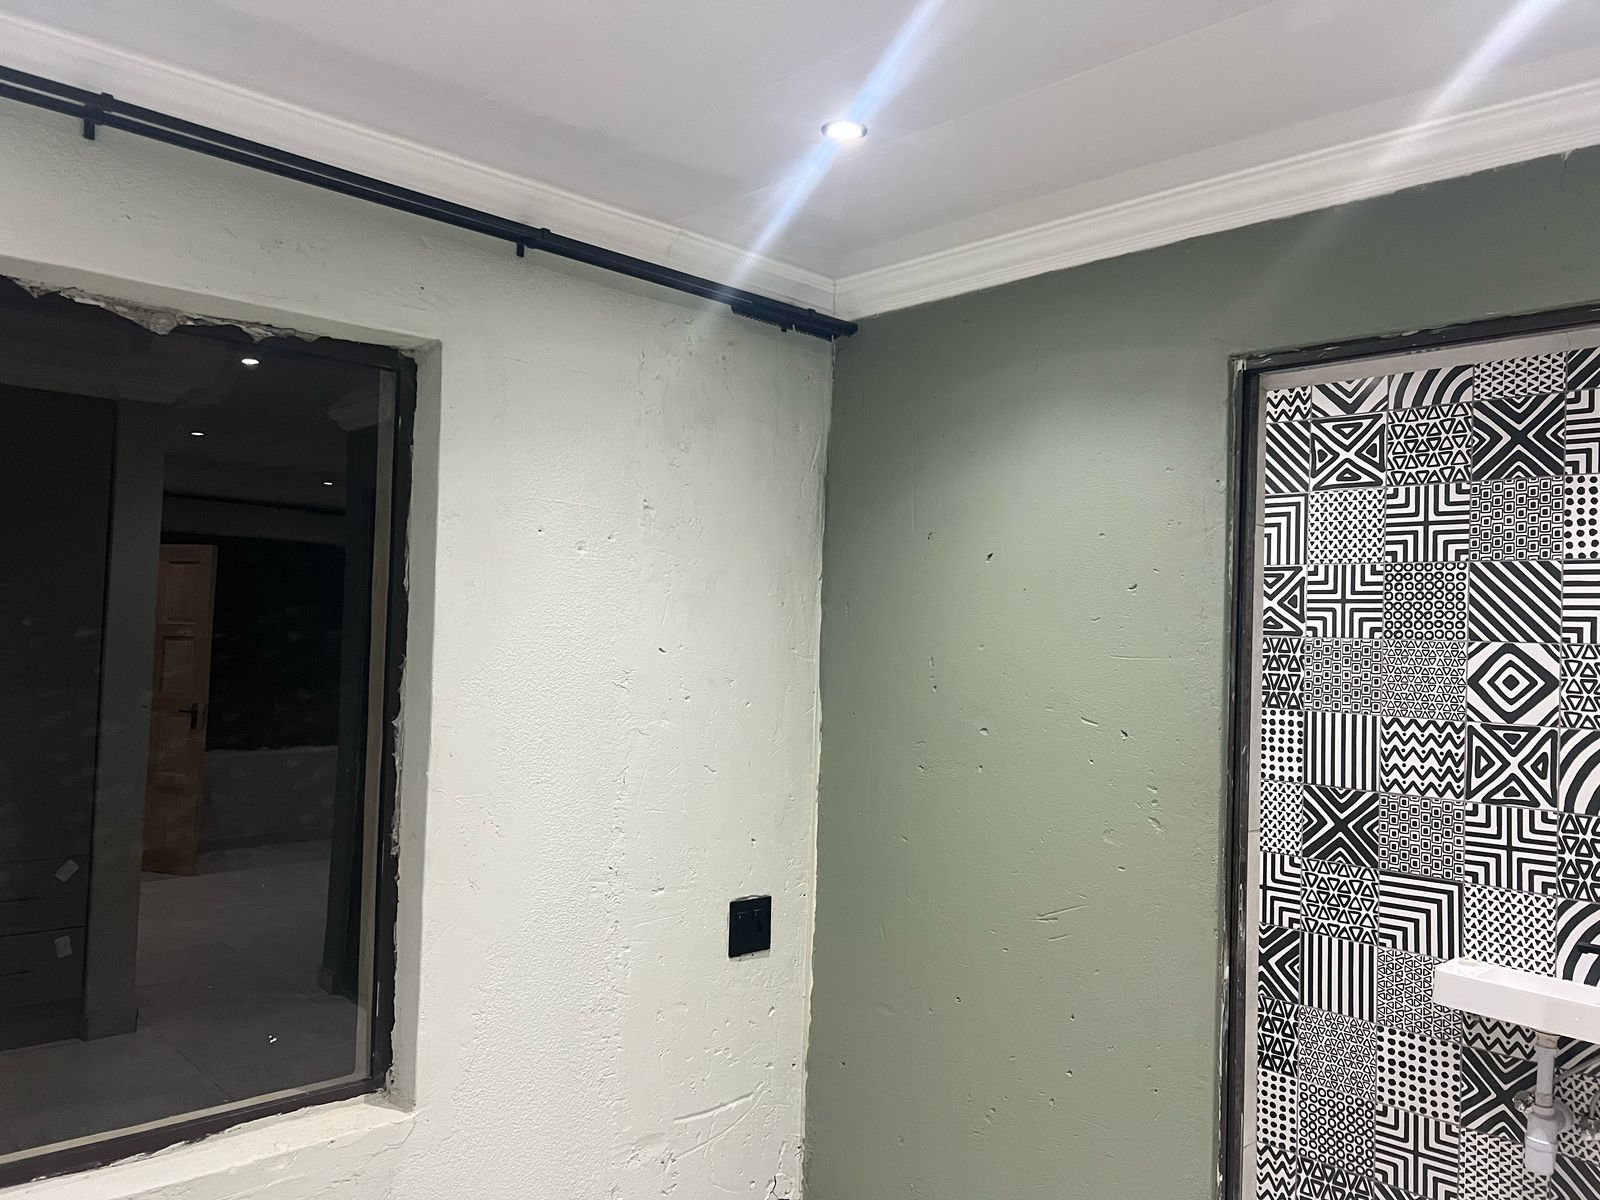
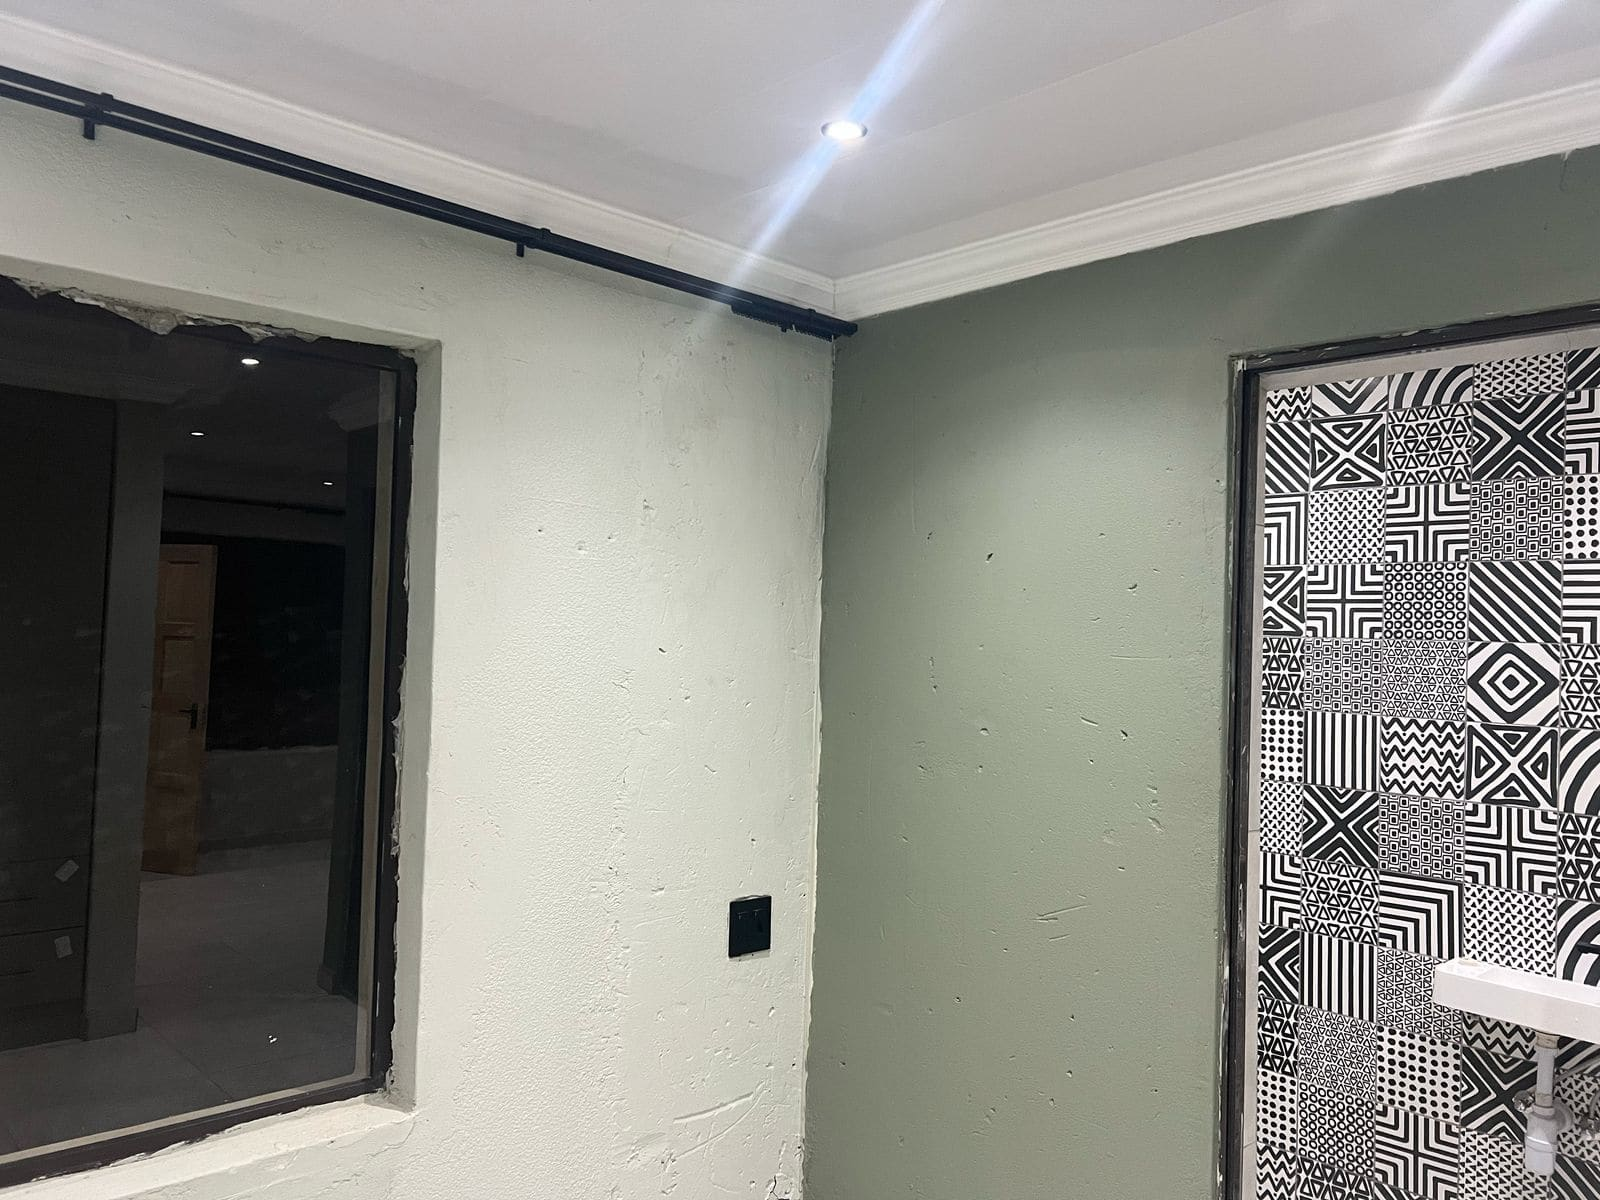
Compress images, add email fallback for enquiries, clean up hero and map loading
- Recompress all property photos and convert Eastfield PNGs to JPEG, cutting
  images/ from 12MB to 3.7MB; remove unused/duplicate photos (home2.jpeg,
  Ext 26 photos 13-24 which were byte-identical dupes of 01-12)
- Shrink logo PNG from 949KB to 145KB
- Contact form now also emails the enquiry via FormSubmit as a fallback in
  case the WhatsApp redirect fails to open
- Remove crowded trust-badge pills from the hero (info already covered by
  the stats bar and Why section)
- Add a loading placeholder behind the Google Maps embeds so cards don't
  look broken while the map loads

diff --git a/index.html b/index.html
@@ -90,21 +90,6 @@
       display: flex; flex-wrap: wrap; gap: 16px; justify-content: center; margin-bottom: 40px;
       opacity: 0; animation: fadeInUp 0.8s var(--ease-out) 1s forwards;
     }
-    .hero-trust {
-      display: flex; flex-wrap: wrap; gap: 10px; justify-content: center;
-      opacity: 0; animation: fadeInUp 0.8s var(--ease-out) 1.2s forwards;
-    }
-    .trust-badge {
-      display: inline-flex; align-items: center; gap: 7px;
-      padding: 8px 16px; border-radius: 999px;
-      background: rgba(255,255,255,0.04); border: 1px solid rgba(255,255,255,0.06);
-      color: rgba(255,255,255,0.6); font-size: 0.7rem; font-weight: 600;
-      font-family: 'Inter', sans-serif; backdrop-filter: blur(8px);
-      transition: all 0.4s var(--ease-out);
-    }
-    .trust-badge:hover { background: rgba(255,255,255,0.08); border-color: rgba(111,168,58,0.2); transform: translateY(-2px); }
-    .trust-badge .icon { width: 18px; height: 18px; border-radius: 50%; background: rgba(111,168,58,0.12); display: grid; place-items: center; color: var(--gold); font-size: 0.55rem; }
-
     .hero-scroll {
       position: absolute; bottom: 28px; left: 50%; transform: translateX(-50%);
       z-index: 2; display: flex; flex-direction: column; align-items: center; gap: 6px;
@@ -162,6 +147,16 @@
     .map-card-label { display: flex; align-items: center; gap: 10px; padding: 14px 18px; background: rgba(255,255,255,0.03); }
     .map-card-label .dot { width: 7px; height: 7px; border-radius: 50%; background: var(--gold); flex-shrink: 0; box-shadow: 0 0 10px rgba(111,168,58,0.4); animation: pulse-dot 2s ease-in-out infinite; }
     .map-card-label span { font-size: 0.82rem; color: var(--white); font-weight: 600; }
+    .map-frame-wrap { position: relative; height: 220px; }
+    .map-frame-wrap iframe { position: relative; z-index: 1; background: transparent; }
+    .map-placeholder {
+      position: absolute; inset: 0; display: flex; flex-direction: column; align-items: center; justify-content: center; gap: 10px;
+      color: rgba(255,255,255,0.4); font-size: 0.75rem; font-family: 'Inter', sans-serif;
+      transition: opacity 0.4s var(--ease-out);
+    }
+    .map-frame-wrap.loaded .map-placeholder { opacity: 0; pointer-events: none; }
+    .map-spinner { width: 22px; height: 22px; border-radius: 50%; border: 2px solid rgba(255,255,255,0.15); border-top-color: var(--gold); animation: map-spin 0.9s linear infinite; }
+    @keyframes map-spin { to { transform: rotate(360deg); } }
 
     /* ── CTA ── */
     .cta-section {
@@ -258,11 +253,6 @@
           </a>
           <a href="contact.html" class="btn btn-ghost">Schedule a Tour</a>
         </div>
-        <div class="hero-trust">
-          <div class="trust-badge"><span class="icon">✦</span> Established 2018</div>
-          <div class="trust-badge"><span class="icon">✦</span> Professionally Managed</div>
-          <div class="trust-badge"><span class="icon">✦</span> All-Inclusive</div>
-        </div>
       </div>
     </div>
 
@@ -327,7 +317,7 @@
 
         <div class="room-card tilt-3d reveal reveal-delay-3">
           <div class="room-card-image shine-overlay">
-            <img src="images/Eastfield/photo-01.png" alt="Eastfield Suite" loading="lazy" />
+            <img src="images/Eastfield/photo-01.jpeg" alt="Eastfield Suite" loading="lazy" />
           </div>
           <div class="room-card-body">
             <h3>Eastfield</h3>
@@ -372,15 +362,24 @@
       <div class="maps-grid">
         <div class="map-card reveal reveal-delay-1">
           <div class="map-card-label"><div class="dot"></div><span>Extension 26</span></div>
-          <iframe src="https://maps.google.com/maps?q=Extension+26+Vosloorus+Ekurhuleni&output=embed" width="100%" height="220" style="border:0;" allowfullscreen="" loading="lazy" title="Extension 26"></iframe>
+          <div class="map-frame-wrap">
+            <div class="map-placeholder"><div class="map-spinner"></div><span>Loading map…</span></div>
+            <iframe src="https://maps.google.com/maps?q=Extension+26+Vosloorus+Ekurhuleni&output=embed" width="100%" height="220" style="border:0;" allowfullscreen="" loading="lazy" title="Extension 26" onload="this.parentElement.classList.add('loaded')"></iframe>
+          </div>
         </div>
         <div class="map-card reveal reveal-delay-2">
           <div class="map-card-label"><div class="dot"></div><span>Marimba Ext 9</span></div>
-          <iframe src="https://maps.google.com/maps?q=Marimba+Extension+9+Vosloorus+Ekurhuleni&output=embed" width="100%" height="220" style="border:0;" allowfullscreen="" loading="lazy" title="Marimba Ext 9"></iframe>
+          <div class="map-frame-wrap">
+            <div class="map-placeholder"><div class="map-spinner"></div><span>Loading map…</span></div>
+            <iframe src="https://maps.google.com/maps?q=Marimba+Extension+9+Vosloorus+Ekurhuleni&output=embed" width="100%" height="220" style="border:0;" allowfullscreen="" loading="lazy" title="Marimba Ext 9" onload="this.parentElement.classList.add('loaded')"></iframe>
+          </div>
         </div>
         <div class="map-card reveal reveal-delay-3">
           <div class="map-card-label"><div class="dot"></div><span>Eastfield</span></div>
-          <iframe src="https://maps.google.com/maps?q=Eastfield+Vosloorus+Ekurhuleni&output=embed" width="100%" height="220" style="border:0;" allowfullscreen="" loading="lazy" title="Eastfield"></iframe>
+          <div class="map-frame-wrap">
+            <div class="map-placeholder"><div class="map-spinner"></div><span>Loading map…</span></div>
+            <iframe src="https://maps.google.com/maps?q=Eastfield+Vosloorus+Ekurhuleni&output=embed" width="100%" height="220" style="border:0;" allowfullscreen="" loading="lazy" title="Eastfield" onload="this.parentElement.classList.add('loaded')"></iframe>
+          </div>
         </div>
       </div>
     </div>

diff --git a/contact.html b/contact.html
@@ -297,7 +297,19 @@
       width: 100%;
       height: 400px;
       border: none;
+      position: relative;
+      z-index: 1;
     }
+
+    .map-frame-wrap { position: relative; }
+    .map-placeholder {
+      position: absolute; inset: 0; display: flex; flex-direction: column; align-items: center; justify-content: center; gap: 10px;
+      color: rgba(255,255,255,0.4); font-size: 0.8rem; font-family: 'Inter', sans-serif;
+      transition: opacity 0.4s ease;
+    }
+    .map-frame-wrap.loaded .map-placeholder { opacity: 0; pointer-events: none; }
+    .map-spinner { width: 24px; height: 24px; border-radius: 50%; border: 2px solid rgba(255,255,255,0.15); border-top-color: var(--gold); animation: map-spin 0.9s linear infinite; }
+    @keyframes map-spin { to { transform: rotate(360deg); } }
 
     /* ===== RESPONSIVE ===== */
     @media (max-width: 1024px) {
@@ -403,9 +415,9 @@
       var imgs = [
         'images/Ext 26/photo-02.jpeg',
         'images/Ext 9/photo-04.jpeg',
-        'images/Eastfield/photo-03.png',
+        'images/Eastfield/photo-03.jpeg',
         'images/Ext 26/photo-07.jpeg',
-        'images/Eastfield/photo-06.png',
+        'images/Eastfield/photo-06.jpeg',
         'images/Ext 26/photo-10.jpeg'
       ];
       var wrap = document.getElementById('hsSlides');
@@ -563,7 +575,10 @@
         <p class="section-subtitle light">All our properties are located across Vosloorus, Ekurhuleni - close to schools, transport corridors, and shopping precincts.</p>
       </div>
       <div class="map-embed reveal reveal-delay-2">
-        <iframe src="https://maps.google.com/maps?q=Vosloorus+Ekurhuleni+Gauteng&output=embed" width="100%" height="400" style="border:0;" allowfullscreen="" loading="lazy" title="Vosloorus location"></iframe>
+        <div class="map-frame-wrap">
+          <div class="map-placeholder"><div class="map-spinner"></div><span>Loading map…</span></div>
+          <iframe src="https://maps.google.com/maps?q=Vosloorus+Ekurhuleni+Gauteng&output=embed" width="100%" height="400" style="border:0;" allowfullscreen="" loading="lazy" title="Vosloorus location" onload="this.parentElement.classList.add('loaded')"></iframe>
+        </div>
       </div>
     </div>
   </section>
@@ -709,9 +724,24 @@
       text += '\n\n' + msg;
       // Open WhatsApp with pre-filled message
       window.open('https://wa.me/27728287116?text=' + encodeURIComponent(text), '_blank');
+      // Also send the enquiry by email so it is not lost if WhatsApp fails to open
+      fetch('https://formsubmit.co/ajax/Thandolwethu@gems.gov.za', {
+        method: 'POST',
+        headers: { 'Content-Type': 'application/json', 'Accept': 'application/json' },
+        body: JSON.stringify({
+          name: name,
+          phone: phone,
+          email: email || 'Not provided',
+          property: property || 'Not specified',
+          message: msg,
+          _subject: 'New enquiry from ' + name + ' — Umnyango website',
+          _template: 'table',
+          _captcha: 'false'
+        })
+      }).catch(function () { /* WhatsApp remains the primary channel */ });
       const success = document.getElementById('formSuccess');
       success.style.display = 'block';
-      success.textContent = '✓ Redirecting to WhatsApp to send your message.';
+      success.textContent = '✓ Message sent. We are also opening WhatsApp so you can reach us instantly.';
       this.reset();
       setTimeout(() => {
         success.style.display = 'none';

diff --git a/properties.html b/properties.html
@@ -384,10 +384,10 @@
     <div class="hs-slides" id="hsSlides">
       <div class="hs-slide active" style="background-image:url('images/Ext 26/photo-01.jpeg');"></div>
       <div class="hs-slide" style="background-image:url('images/Ext 9/photo-01.jpeg');"></div>
-      <div class="hs-slide" style="background-image:url('images/Eastfield/photo-01.png');"></div>
+      <div class="hs-slide" style="background-image:url('images/Eastfield/photo-01.jpeg');"></div>
       <div class="hs-slide" style="background-image:url('images/Ext 26/photo-05.jpeg');"></div>
       <div class="hs-slide" style="background-image:url('images/Ext 9/photo-03.jpeg');"></div>
-      <div class="hs-slide" style="background-image:url('images/Eastfield/photo-04.png');"></div>
+      <div class="hs-slide" style="background-image:url('images/Eastfield/photo-04.jpeg');"></div>
     </div>
     <div class="hs-overlay"></div>
     <div class="container">
@@ -525,7 +525,7 @@
       <div class="property-card reveal" data-location="eastfield" id="prop-3">
         <div class="property-card-inner">
           <div class="property-photo">
-            <img src="images/Eastfield/photo-01.png" alt="Eastfield" loading="lazy" />
+            <img src="images/Eastfield/photo-01.jpeg" alt="Eastfield" loading="lazy" />
             <div class="photo-count-badge">
               <svg width="10" height="10" viewBox="0 0 24 24" fill="none" stroke="currentColor" stroke-width="2.5"><path d="M23 19a2 2 0 0 1-2 2H3a2 2 0 0 1-2-2V8a2 2 0 0 1 2-2h4l2-3h6l2 3h4a2 2 0 0 1 2 2z"/><circle cx="12" cy="13" r="4"/></svg>
               6 Photos

diff --git a/about.html b/about.html
@@ -572,10 +572,10 @@
     (function(){
       var imgs = [
         'images/Ext 26/photo-03.jpeg',
-        'images/Eastfield/photo-02.png',
+        'images/Eastfield/photo-02.jpeg',
         'images/Ext 9/photo-02.jpeg',
         'images/Ext 26/photo-08.jpeg',
-        'images/Eastfield/photo-05.png',
+        'images/Eastfield/photo-05.jpeg',
         'images/Ext 26/photo-11.jpeg'
       ];
       var wrap = document.getElementById('hsSlides');
@@ -705,7 +705,7 @@
           </div>
         </div>
         <div class="area-card reveal reveal-delay-3">
-          <div class="area-photo"><img src="images/Eastfield/photo-03.png" alt="Eastfield" loading="lazy" /></div>
+          <div class="area-photo"><img src="images/Eastfield/photo-03.jpeg" alt="Eastfield" loading="lazy" /></div>
           <div class="area-body">
             <p class="area-location">Vosloorus Eastfield, Ekurhuleni</p>
             <h3>Eastfield</h3>
